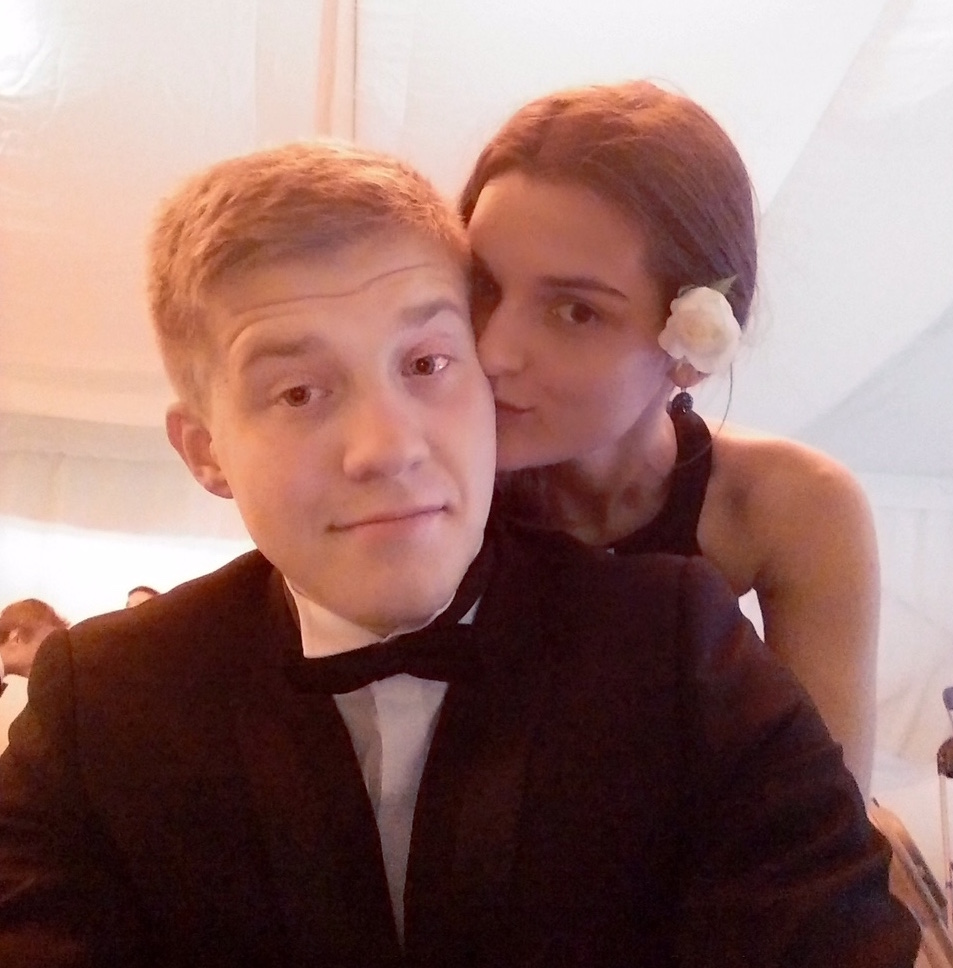
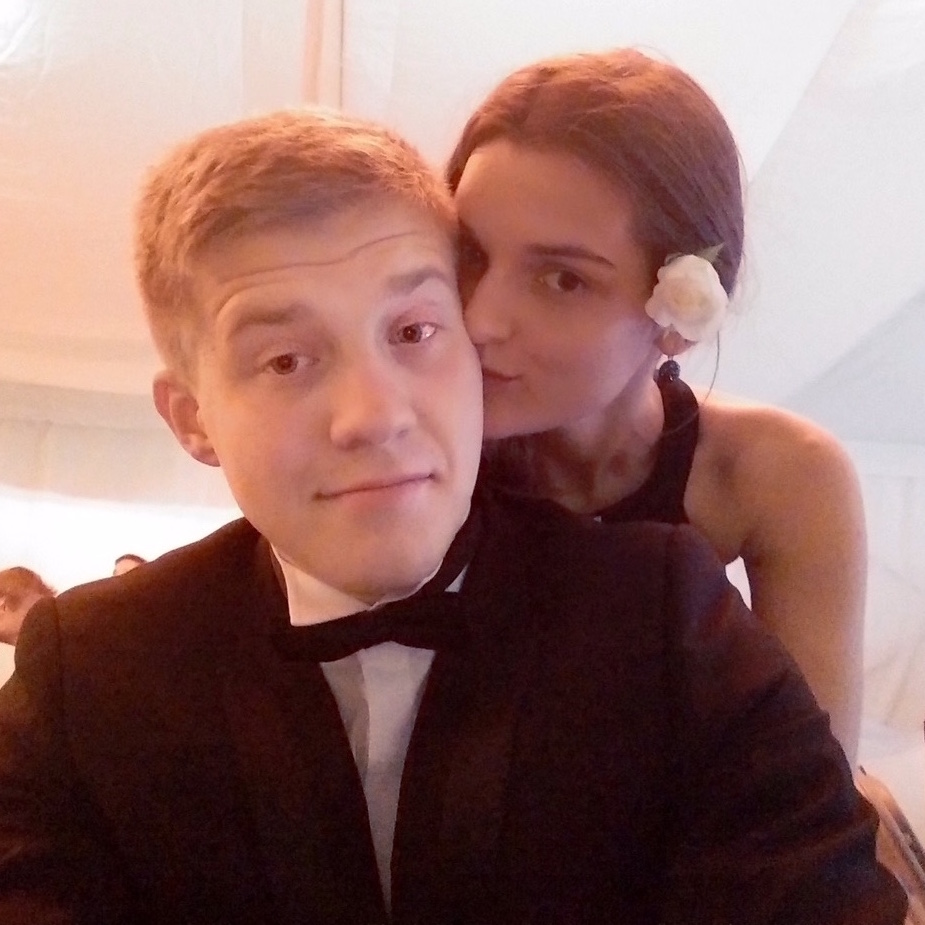
Cropped Rada pic a bit more. Changed a title in html

diff --git a/index.html b/index.html
@@ -172,7 +172,7 @@
         <div class="container">
             <div class="row">
                 <div class="col-lg-10 col-lg-offset-1 text-center">
-                    <h2>Some hipster pics here</h2>
+                    <h2>Some pics of me</h2>
                     <hr class="small">
 					<!-- <div id="galleria"></div> -->
                     <div class="row">
